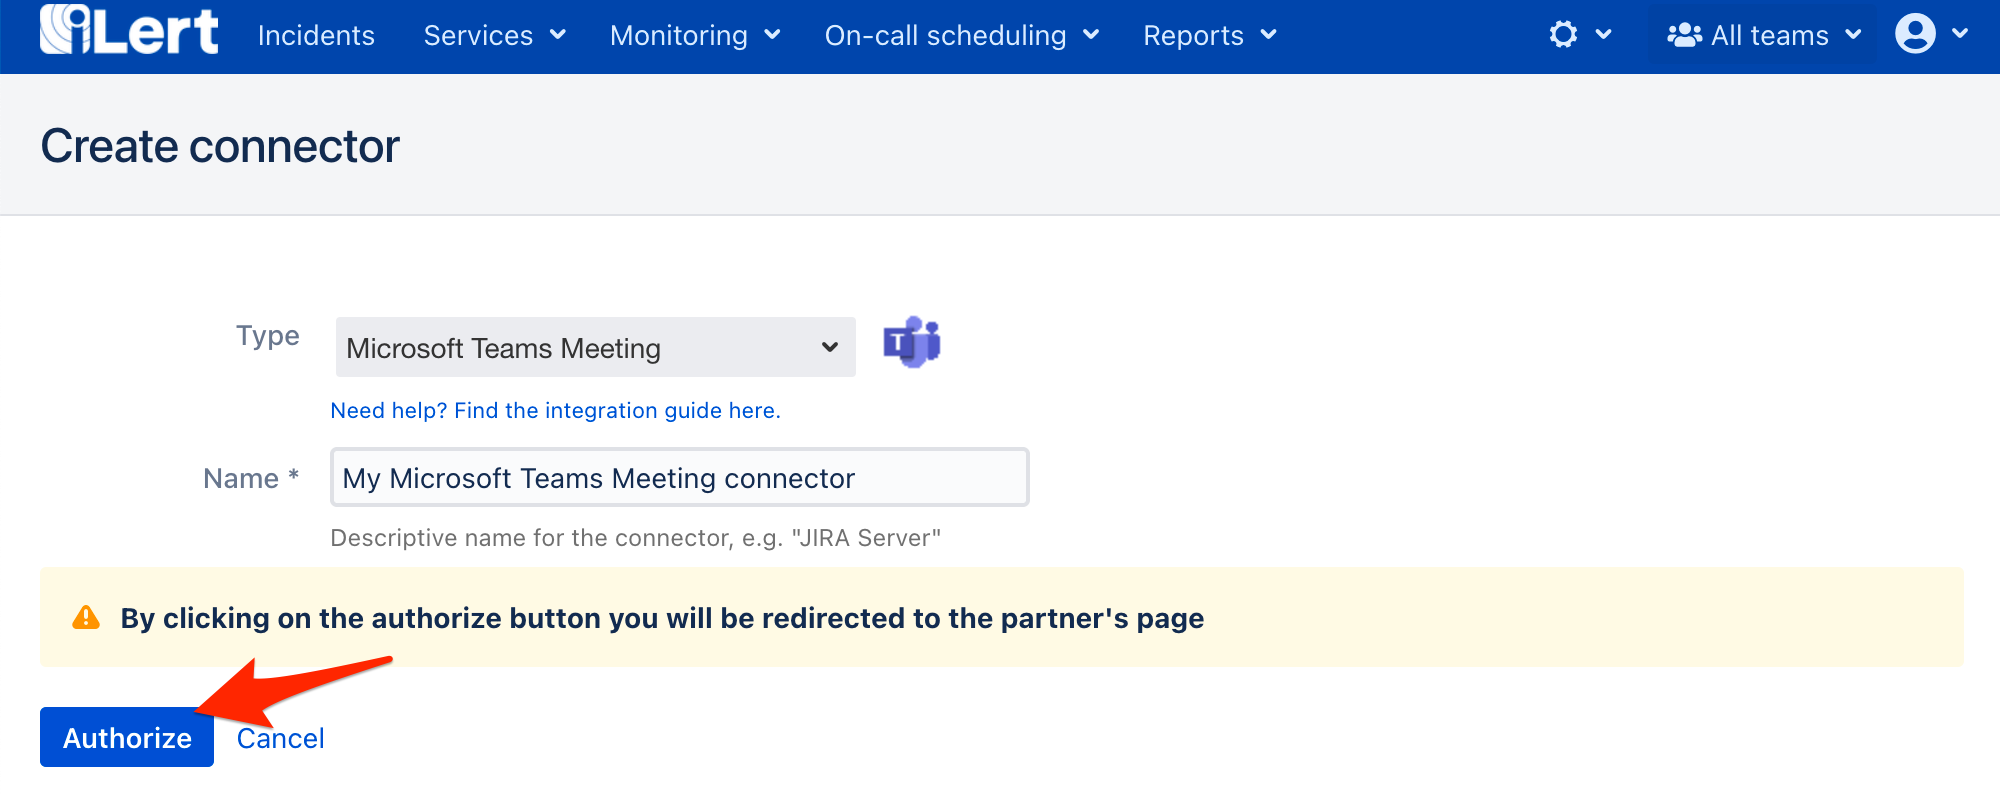
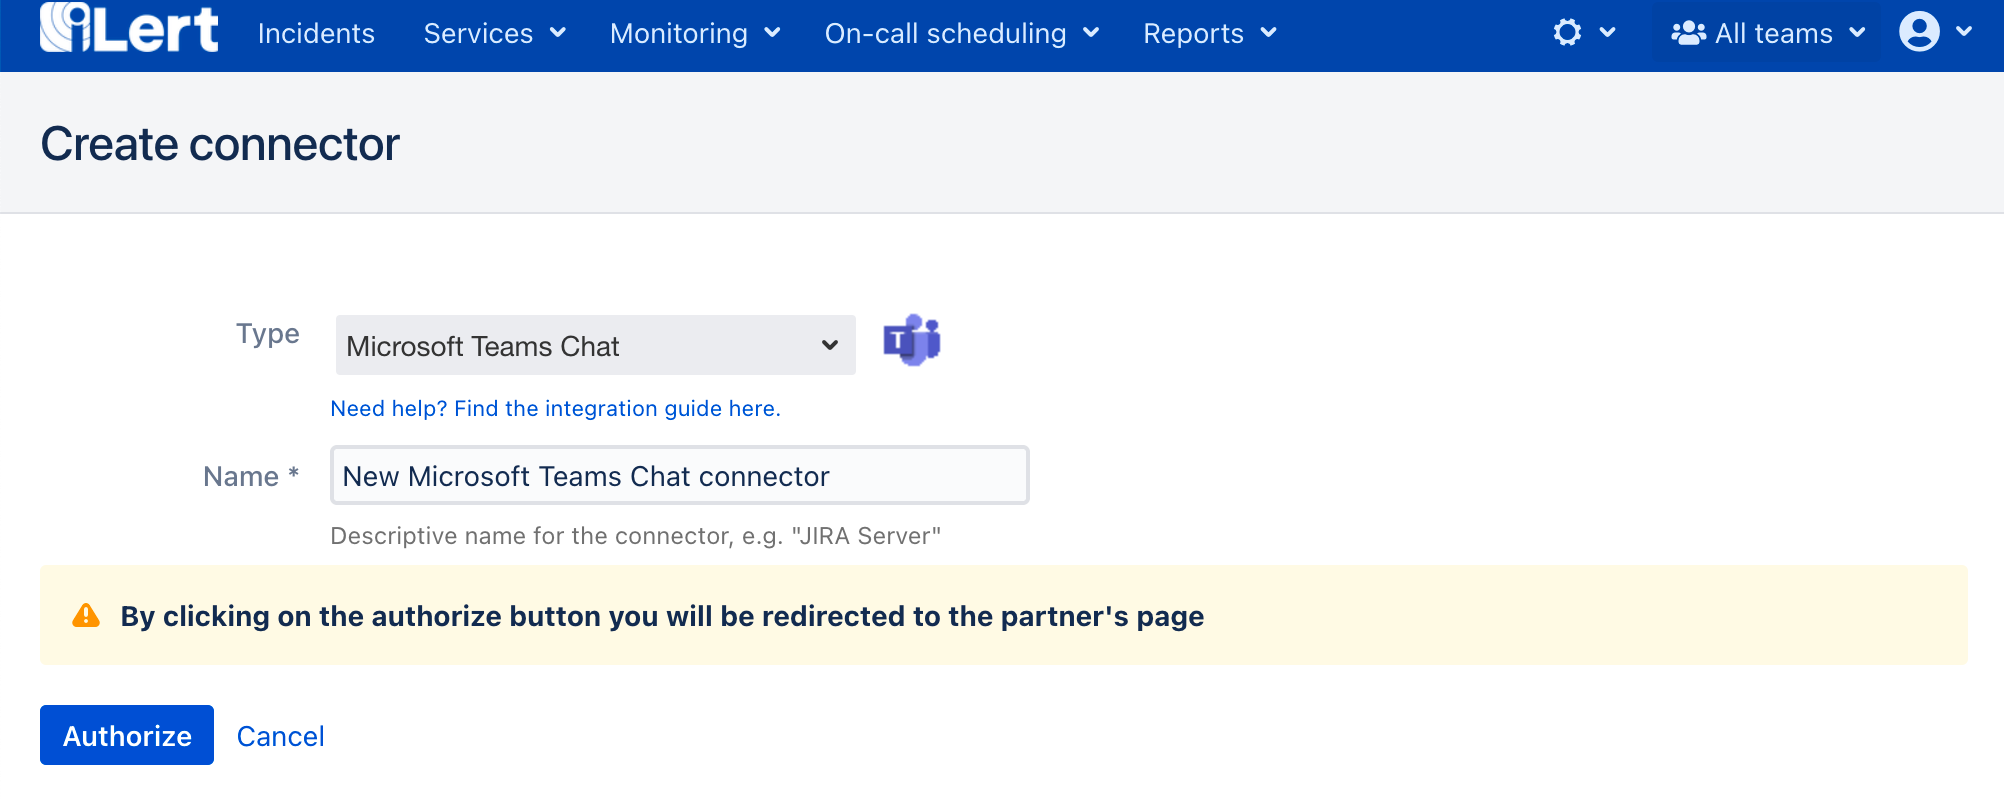
GitBook: [master] 135 pages and 6 assets modified

diff --git a/integrations/microsoft-teams/chat.md b/integrations/microsoft-teams/chat.md
@@ -6,3 +6,65 @@ description: >-
 
 # Microsoft Teams Integration Chat
 
+## In iLert <a id="create-alarm-source"></a>
+
+### Create the Microsoft Teams Chat Connector and link it to the alert source
+
+{% hint style="info" %}
+**Admin permission required**
+
+To set up the integration, you must have admin rights in iLert.
+{% endhint %}
+
+1. ****Click the gear icon and then click on the **Connectors** link
+
+![](../../.gitbook/assets/screenshot_16_03_21__15_46.png)
+
+2. Click the **Add Connector** button
+
+![](../../.gitbook/assets/screenshot_16_03_21__15_48.png)
+
+3. On the next page, choose **Microsoft Teams Chat** as type, name the connector and click on the save button to authorize iLert App with your Microsoft Teams account.
+
+![](../../.gitbook/assets/ilert%20%2839%29.png)
+
+4. On the next page, agree with the requested permissions and click on the **Authorize** button
+
+5. Go to the alert sources tab and open the alert source whose incidents you want to post into Microsft Teams channel. Click on the **Incident actions** tab and then on the **Add new incident action** button
+
+![](../../.gitbook/assets/screenshot_16_03_21__16_04.png)
+
+6. On the next page choose **Microsoft Teams Chat** as the type, choose the connector created in step 3, name it**,** choose **incident events** to publish, choose **Your team**, then choose **Your channel** and click on the **Save** button.
+
+![](../../.gitbook/assets/ilert%20%2841%29.png)
+
+6. Finished! You can now test the connection by clicking on the button **Test this connection**. Thereafter, a test message will be posted on the Microsoft Teams channel.
+
+![](../../.gitbook/assets/general__roman____microsoft_teams.png)
+
+## FAQ <a id="faq"></a>
+
+**Can I link multiple Microsoft Teams Accounts to an iLert account?**
+
+Yes.
+
+**Are updates to an incident published on the Microsoft Teams Chat channel?**
+
+Yes, the following updates to an incident are currently being released:
+
+* **Escalations** : An incident is assigned to another user through an automatic escalation.
+* **Manual Assignments** : An incident is manually assigned to someone.
+* **Actions** : An incident is accepted or resolved.
+
+**Can I choose which updates to an incident will be published in Microsoft Teams Chat?**
+
+Yes.
+
+**How can I uninstall the iLert App from my Microsoft Teams account?**
+
+1. Login to your Microsoft Teams Account and navigate to your team 
+2. Click on the **More options** menu and then on the **Manage team** option
+3. Click on the **Apps** tab
+4. Find the **iLert** app
+5. Click on the **Uninstall** button
+

diff --git a/integrations/microsoft-teams/meeting.md b/integrations/microsoft-teams/meeting.md
@@ -24,7 +24,7 @@ To set up the integration, you must have admin rights in iLert.
 
 3. On the next page, choose **Microsoft Teams Meeting** as type, name the connector and click on the save button to authorize iLert App with your Microsoft Teams account.
 
-![](../../.gitbook/assets/ilert%20%2839%29.png)
+![](../../.gitbook/assets/ilert%20%2840%29.png)
 
 4. On the next page, agree with the requested permissions and click on the **Authorize** button
 

diff --git a/integrations/mxtoolbox.md b/integrations/mxtoolbox.md
@@ -16,7 +16,7 @@ description: >-
 
 2. Enter a name and select your desired escalation policy. Select "MXToolBox" as the **Integration Type** and click on **Save**.
 
-![](../.gitbook/assets/ilert%20%2840%29.png)
+![](../.gitbook/assets/ilert%20%2842%29.png)
 
 3. On the next page, a Webhook URL is generated. You will need this URL below when setting up the notification callback in MXToolBox.
 

diff --git a/integrations/zoom/chat.md b/integrations/zoom/chat.md
@@ -42,7 +42,7 @@ To set up the integration, you must have admin rights in iLert.
 
 6. Finished! You can now test the connection by clicking on the button **Test this connection**. Thereafter, a test message will be posted on the Zoom Chat channel.
 
-![](../../.gitbook/assets/screenshot_16_03_21__16_30.png)
+![](../../.gitbook/assets/zoom%20%282%29.png)
 
 ## FAQ <a id="faq"></a>
 
